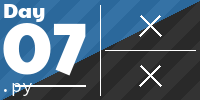
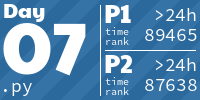
Fix incorrect caching of leaderboard

diff --git a/AoCTiles/create_aoc_tiles.py b/AoCTiles/create_aoc_tiles.py
@@ -153,13 +153,14 @@ def parse_leaderboard(leaderboard_path: Path) -> dict[str, DayScores]:
 
 def request_leaderboard(year: int) -> dict[str, DayScores]:
     leaderboard_path = CACHE_DIR / f"leaderboard{year}.html"
-    now = datetime.now()
-    leaderboard_age = now - datetime.fromtimestamp(leaderboard_path.stat().st_mtime)
-    if leaderboard_path.exists() and (leaderboard_age < timedelta(hours=6) or year < now.year):
-        leaderboard = parse_leaderboard(leaderboard_path)
-        has_no_none_values = all(itertools.chain(map(list, leaderboard.values())))
-        if has_no_none_values:
-            return leaderboard
+    if leaderboard_path.exists():
+        now = datetime.now()
+        leaderboard_age = now - datetime.fromtimestamp(leaderboard_path.stat().st_mtime)
+        if leaderboard_age < timedelta(hours=6) or year < now.year:
+            leaderboard = parse_leaderboard(leaderboard_path)
+            has_no_none_values = all(itertools.chain(map(list, leaderboard.values())))
+            if has_no_none_values:
+                return leaderboard
     with open(SESSION_COOKIE_PATH) as cookie_file:
         session_cookie = cookie_file.read().strip()
         data = requests.get(PERSONAL_LEADERBOARD_URL.format(year=year), cookies={"session": session_cookie}).text

diff --git a/README.rst b/README.rst
@@ -34,7 +34,7 @@ Generated by the script in `AoCTiles`_, which is an adapted version of a script 
 
 .. AOC TILES BEGIN - 2022
 
-2022 - 16 ⭐
+2022 - 24 ⭐
 .............
 
 .. image:: Media/2022/01.png
